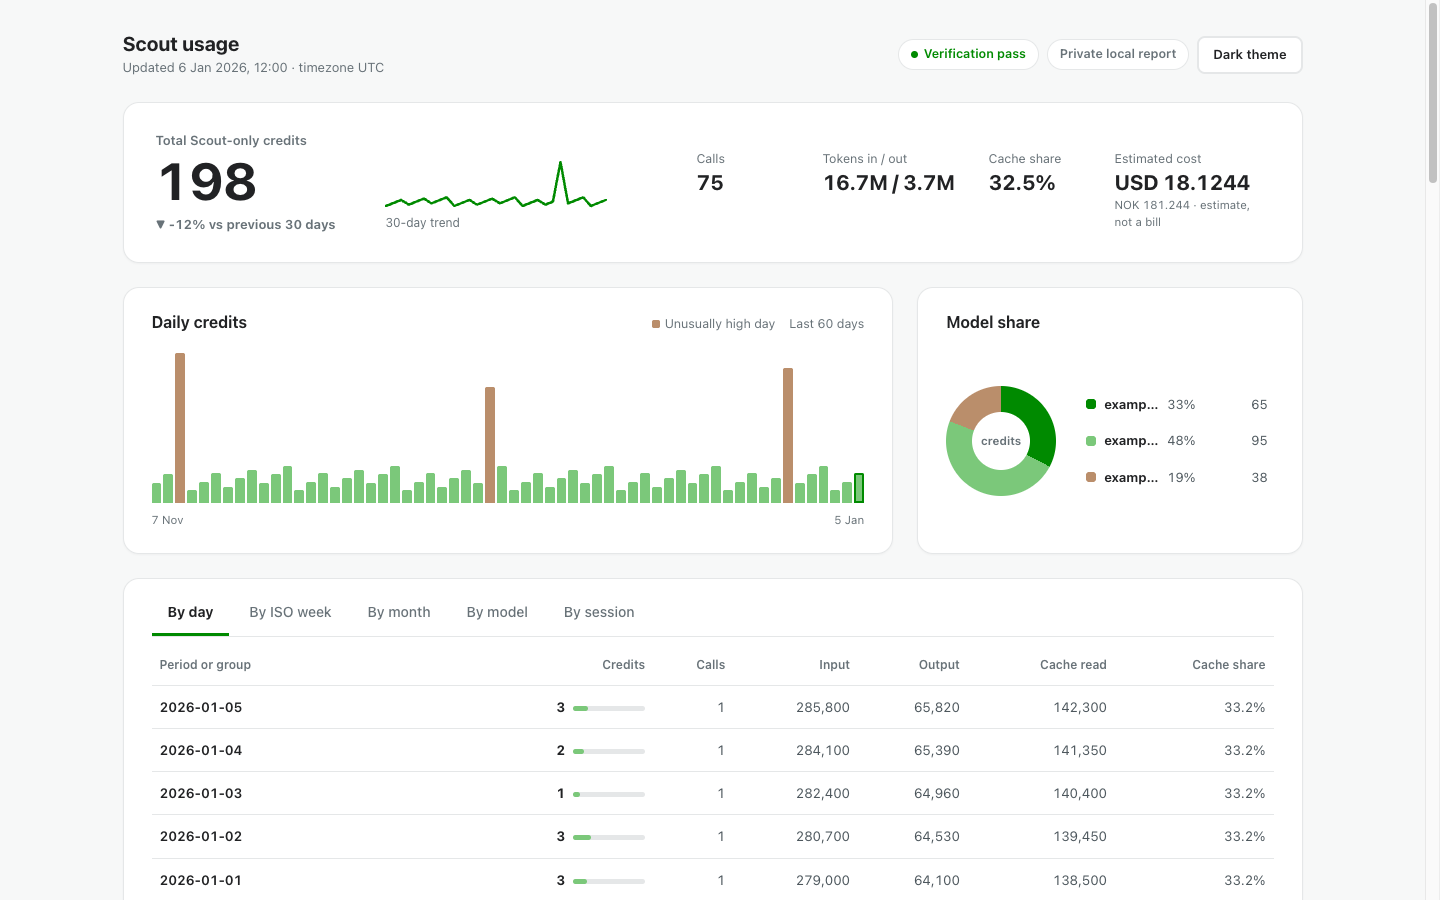
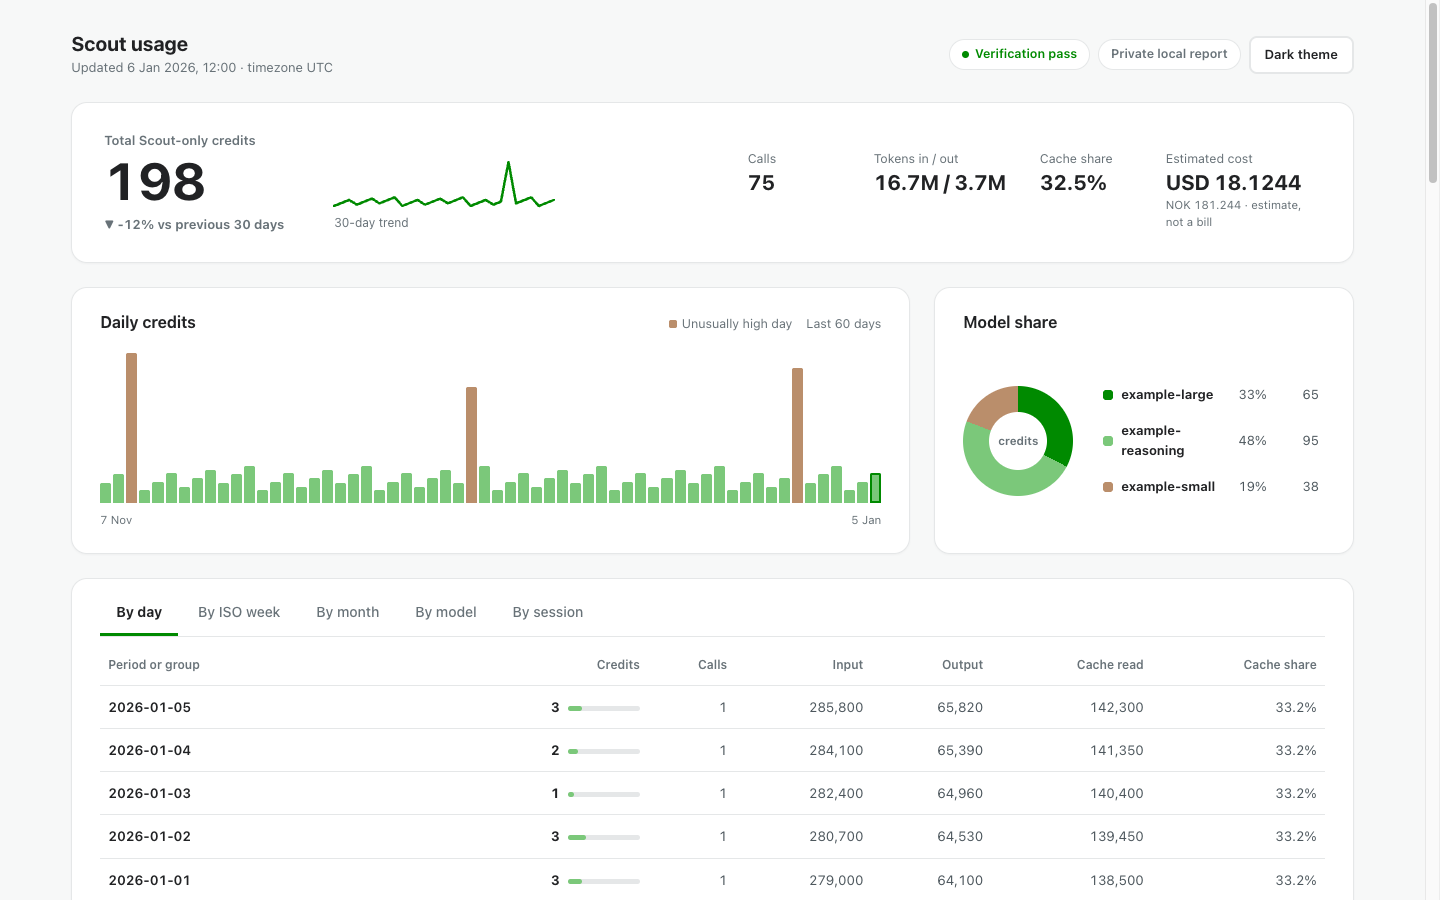
Refine usage baseline and responsive layout

diff --git a/examples/synthetic-dashboard.html b/examples/synthetic-dashboard.html
@@ -58,7 +58,7 @@
       outline-offset: 3px;
     }
     .dashboard {
-      width: min(100% - 48px, 1180px);
+      width: 90%;
       margin: 0 auto;
       padding: 32px 0 48px;
       display: flex;
@@ -211,7 +211,7 @@
     .model-row {
       width: 100%;
       display: grid;
-      grid-template-columns: 10px minmax(0, 1fr) auto 64px;
+      grid-template-columns: 10px minmax(90px, 1fr) 34px minmax(44px, auto);
       align-items: center;
       gap: 8px;
       padding: 6px;
@@ -225,7 +225,7 @@
     }
     .model-row:hover, .model-row:focus-visible { background: var(--d-bg); }
     .model-row i { width: 10px; height: 10px; border-radius: 3px; background: var(--model-color); }
-    .model-name { min-width: 0; overflow: hidden; color: var(--d-strong); font-weight: 650; text-align: left; text-overflow: ellipsis; white-space: nowrap; }
+    .model-name { min-width: 0; color: var(--d-strong); font-weight: 650; text-align: left; overflow-wrap: anywhere; }
     .breakdown-card { padding: 8px 28px 24px; }
     .tab-list { display: flex; gap: 4px; overflow-x: auto; border-bottom: 1px solid var(--d-border); }
     .tab {
@@ -272,7 +272,7 @@
       .hero-kpi { flex: 1; }
     }
     @media (max-width: 700px) {
-      .dashboard { width: min(100% - 28px, 1180px); padding-top: 20px; gap: 16px; }
+      .dashboard { width: calc(100% - 28px); padding-top: 20px; gap: 16px; }
       .dashboard-header { align-items: flex-start; flex-wrap: wrap; }
       .header-actions { width: 100%; justify-content: flex-start; }
       .hero-card, .daily-card, .model-card, .quiet-card { padding: 20px; }

diff --git a/templates/dashboard.html b/templates/dashboard.html
@@ -58,7 +58,7 @@
       outline-offset: 3px;
     }
     .dashboard {
-      width: min(100% - 48px, 1180px);
+      width: 90%;
       margin: 0 auto;
       padding: 32px 0 48px;
       display: flex;
@@ -211,7 +211,7 @@
     .model-row {
       width: 100%;
       display: grid;
-      grid-template-columns: 10px minmax(0, 1fr) auto 64px;
+      grid-template-columns: 10px minmax(90px, 1fr) 34px minmax(44px, auto);
       align-items: center;
       gap: 8px;
       padding: 6px;
@@ -225,7 +225,7 @@
     }
     .model-row:hover, .model-row:focus-visible { background: var(--d-bg); }
     .model-row i { width: 10px; height: 10px; border-radius: 3px; background: var(--model-color); }
-    .model-name { min-width: 0; overflow: hidden; color: var(--d-strong); font-weight: 650; text-align: left; text-overflow: ellipsis; white-space: nowrap; }
+    .model-name { min-width: 0; color: var(--d-strong); font-weight: 650; text-align: left; overflow-wrap: anywhere; }
     .breakdown-card { padding: 8px 28px 24px; }
     .tab-list { display: flex; gap: 4px; overflow-x: auto; border-bottom: 1px solid var(--d-border); }
     .tab {
@@ -272,7 +272,7 @@
       .hero-kpi { flex: 1; }
     }
     @media (max-width: 700px) {
-      .dashboard { width: min(100% - 28px, 1180px); padding-top: 20px; gap: 16px; }
+      .dashboard { width: calc(100% - 28px); padding-top: 20px; gap: 16px; }
       .dashboard-header { align-items: flex-start; flex-wrap: wrap; }
       .header-actions { width: 100%; justify-content: flex-start; }
       .hero-card, .daily-card, .model-card, .quiet-card { padding: 20px; }

diff --git a/tests/test_config_render.py b/tests/test_config_render.py
@@ -11,7 +11,7 @@ from pathlib import Path
 from scout_usage_tracker.config import ConfigError, load_config
 from scout_usage_tracker.cli import command_update
 from scout_usage_tracker.import_usage import import_usage
-from scout_usage_tracker.render import _calendar_window, _credits, _display_datetime, render_dashboard
+from scout_usage_tracker.render import _calendar_window, _credits, _daily_chart, _display_datetime, render_dashboard
 
 from tests.helpers import event, make_source
 
@@ -140,11 +140,14 @@ class ConfigRenderTests(unittest.TestCase):
         self.assertIn('data-bar-chart', text)
         self.assertIn('data-model-card', text)
         self.assertIn("Estimated cost", text)
+        self.assertIn("width: 90%", text)
+        self.assertIn("minmax(90px, 1fr)", text)
         self.assertNotIn("title=", text)
         self.assertNotIn('<script src=', text)
         self.assertNotIn('<link rel="stylesheet"', text)
         self.assertEqual(text.count('class="bar-hit"'), 60)
         self.assertEqual(text.count('bar-fill empty'), 59)
+        self.assertNotIn("Unusually high day", text)
 
     def test_sparse_daily_usage_fills_fixed_calendar_window(self):
         daily = [
@@ -163,6 +166,17 @@ class ConfigRenderTests(unittest.TestCase):
         self.assertEqual(_display_datetime("2026-08-05T12:01:08.565Z", "Europe/Oslo"), "5 Aug 2026, 14:01")
         self.assertEqual(_display_datetime("2026-02-03", "UTC"), "3 Feb 2026")
         self.assertEqual(_display_datetime("fictional", "UTC"), "fictional")
+
+    def test_spike_detection_requires_fifteen_usage_days(self):
+        daily = [
+            {"label": f"2025-01-{day:02d}", "credits": Decimal("1")}
+            for day in range(1, 15)
+        ]
+        self.assertNotIn("Unusually high day", _daily_chart(daily))
+        daily.append({"label": "2025-01-15", "credits": Decimal("100")})
+        chart = _daily_chart(daily)
+        self.assertIn("Unusually high day", chart)
+        self.assertIn("unusually high", chart)
 
     def test_verification_overall_mismatch_and_incomplete(self):
         for name, details, total, expected in (

diff --git a/src/scout_usage_tracker/render.py b/src/scout_usage_tracker/render.py
@@ -210,6 +210,7 @@ def _sparkline(daily: list[dict[str, Any]]) -> str:
 
 def _daily_chart(daily: list[dict[str, Any]]) -> str:
     series = _calendar_window(daily, 60)
+    detect_spikes = len(daily) >= 15
     if not series:
         bars = '<p class="empty">No daily usage events.</p>'
         start = end = "—"
@@ -221,7 +222,7 @@ def _daily_chart(daily: list[dict[str, Any]]) -> str:
         threshold = mean + 1.6 * deviation
         rendered = []
         for index, (row, value) in enumerate(zip(series, positive)):
-            spike = deviation > 0 and value > threshold
+            spike = detect_spikes and deviation > 0 and value > threshold
             latest = index == len(series) - 1
             height = 0.0 if value == 0 else max(3.0, value / maximum * 100.0)
             classes = "bar-fill" + (" empty" if value == 0 else "") + (" spike" if spike else "") + (" latest" if latest else "")
@@ -233,9 +234,10 @@ def _daily_chart(daily: list[dict[str, Any]]) -> str:
             )
         bars = "".join(rendered)
         start, end = _friendly_day(series[0]["label"]), _friendly_day(series[-1]["label"])
+    spike_legend = '<span class="spike-key"><i></i>Unusually high day</span>' if detect_spikes else ""
     return (
         '<section class="card daily-card"><div class="card-heading"><h2>Daily credits</h2>'
-        '<div class="chart-meta"><span class="spike-key"><i></i>Unusually high day</span><span>Last 60 days</span></div></div>'
+        f'<div class="chart-meta">{spike_legend}<span>Last 60 days</span></div></div>'
         '<div class="bar-area" data-bar-chart><div class="chart-tooltip bar-tooltip" role="status" aria-live="polite" hidden></div>'
         f'<div class="bar-chart">{bars}</div></div><div class="axis"><span>{_escape(start)}</span><span>{_escape(end)}</span></div></section>'
     )

diff --git a/src/scout_usage_tracker/__init__.py b/src/scout_usage_tracker/__init__.py
@@ -1,3 +1,3 @@
 """Private, local Scout usage accounting."""
 
-__version__ = "0.1.2"
+__version__ = "0.1.3"
